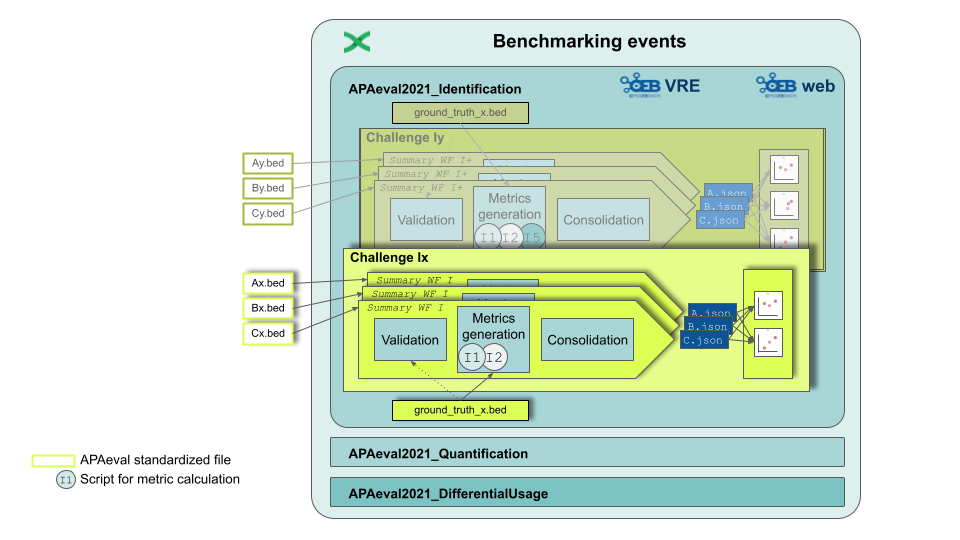
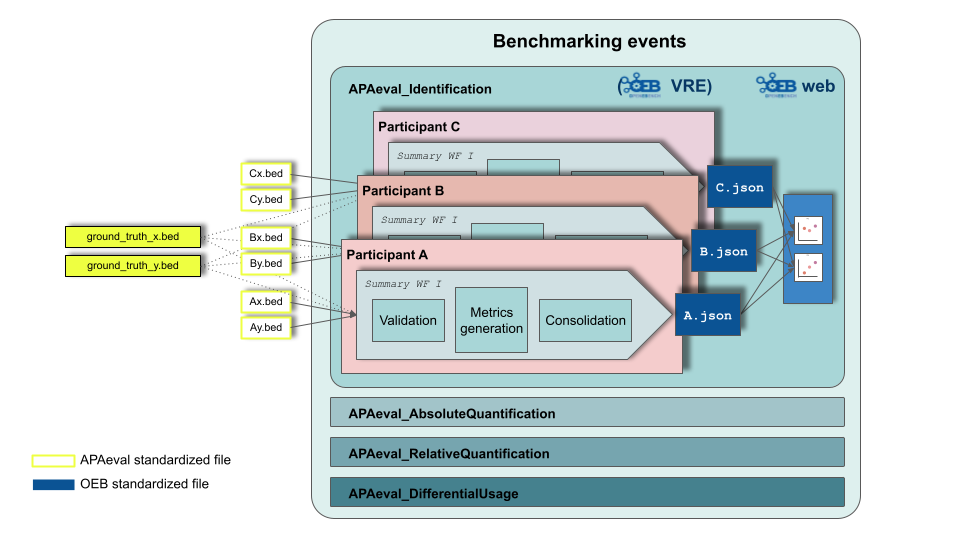
update READMEs

diff --git a/summary_workflows/README.md b/summary_workflows/README.md
@@ -1,63 +1,75 @@
 # Summary workflows
-This is where the summary workflows for APAeval live.
+This is where the summary workflows for APAeval live. The dedicated code for each ***benchmarking event*** resides in its own subdirectory. 
 
 - [Overview](#overview)
 - [Summary workflow general description](#summary-workflow-general-description)
-- [HOW TO](#how-to)
+  - [Directory structure for summary workflow code](#directory-structure-for-summary-workflow-code)
+- [HOW TO: DEVELOP](#how-to-develop)
   - [1. Copy template](#1-copy-template)
   - [2. Establish proper validation](#2-establish-proper-validation)
   - [3. Calculate the metrics](#3-calculate-the-metrics)
   - [4. Consolidation](#4-consolidation)
-  - [5. Adapt `nextflow.config`](#5-adapt-nextflowconfig)
+  - [5. Adapt `nextflow.config` and `main.nf`](#5-adapt-nextflowconfig-and-mainnf)
   - [6. Don't forget to update `README.md`](#6-dont-forget-to-update-readmemd)
-  - [7.Build containers](#7build-containers)
-  - [8. Run the summary workflow](#8-run-the-summary-workflow)
+  - [7. Build images](#7-build-images)
+  - [8. Test run](#8-test-run)
+- [HOW TO: "PRODUCTION"](#how-to-production)
+  - [1. Get input data (= participant output)](#1-get-input-data--participant-output)
+  - [2. Adapt configs](#2-adapt-configs)
+  - [3. Containers & images](#3-containers--images)
 - [Origin](#origin)
 ## Overview
 ![apaeval-swfs][apaeval-swfs]
 
-APAeval consists of **three benchmarking** events to evaluate the performance of different tasks that the methods of interest (=*participants*) might be able to perform: **poly(A) site identification, quantification, and assessment of their differential usage**. A method can participate in one, two or all three events, depending on its functions.   
+APAeval consists of a number of ***benchmarking events*** to evaluate the performance of different tasks that the methods of interest (=***participants***) might be able to perform: **poly(A) site identification, absolute quantification, relative quantification and assessment of their differential usage**. A method can participate in one or several events, depending on its functions.   
 
-Within a benchmarking event, one or more *challenges* will be performed. A **challenge is primarily defined by the input dataset used for performance assessment**. A challenge is evaluated within a *summary workflow*, which is run on the OEB infrastructure. The summary workflow will **compute all metrics relevant for the challenge**. Summary workflows can be re-used between challenges, however, depending on the input dataset, different metrics might be calculated, and summary workflows might thus be adapted to individual challenges (Example here: in challenge Ix, metrics I1 and I2 are computed, whereas in challenge Iy, an additional metric I5 is assessed. Apart from calculating metric I5 however, the summary workflows for the challenges Ix and Iy are the same.)    
+Within a benchmarking event, one or more ***challenges*** will be performed. A **challenge is primarily defined by the input dataset used for performance assessment**. A challenge is evaluated within a ***summary workflow***, which can be run with either docker or singularity, locally or on an HPC infrastructure (currently a profile for Slurm is included). The summary workflow will **compute all metrics relevant for the benchmarking event**. A list of challenge IDs and input files (= output files of one participant for all specified challenges) is passed to the workflow.    
 
-In order to compare the performance of participants within a challenge, the respective summary workflow will be run on output files from all eligible participant execution workflows (For the participant execution workflows please refer to the [iRNA-COSI/APAeval/execution_workflows][apaeval-ewfs] repository!).   
-In a first step the provided files are **validated**. Subsequently, all required **metrics** (scripts In for Identification, Qn for quantification, Dn for differential usage) are computed, using the matched ground truth files, if applicable. Finally, the **results will be gathered in OEB** specific .json files per participant.
-Based on the created .json files, OEB will visualize all results per challenge, such that performance of participants can be compared for each metric.
+In order to compare the performance of participants within a challenge/event, the respective summary workflow will be run on output files from all eligible participant execution workflows (For the participant execution workflows please refer to the [iRNA-COSI/APAeval/execution_workflows][apaeval-ewfs] repository!). The calculated metrics will be written to `.json` files that can be either submitted to OEB for database storage and online vizualisation, or transformed into a table format that can be used for creating custom plots with the help of scripts from the [APAeval utils directory][apaeval-utils].
 
 ## Summary workflow general description
-In order to be compatible with the OEB infrastructure, summary workflows are written in Nextflow and are structured in a predefined manner that will be described in the following sections.
+In a first step the provided input files are **validated**. Subsequently, all specified **metrics** are computed, using the matched ground truth files, if applicable. Finally, the **results are gathered** in OEB specific `.json` files per participant.
+Based on the created .json files, results can be vizualized on OEB per challenge, such that performance of participants can be compared for each metric.   
+
+In order to eventually be compatible with the OEB infrastructure, summary workflows are written in Nextflow and are structured in a predefined manner that will be described in the following sections.
 
 > DON'T FREAK OUT IF YOU'RE UNFAMILIAR WITH `NEXTFLOW`! MOST CHANGES YOU'LL MAKE ARE IN `PYTHON`! 😉
 
-The summary workflow code for each *benchmarking event* resides in its own directory (`identification`, `quantification`, `differential_usage`). 
-
-
+### Directory structure for summary workflow code
 ```bash
-[benchmarking_event]/
-    |- main.nf
-    |- nextflow.config
-    |- specification/
-        |- example_files/
-        |- specification.md
-    |- [benchmarking_event]_dockers/
-        |- validation/
-            |- JSON_templates/
-            |- Dockerfile
-            |- requirements.txt
-            |- validation.py
-            |- ...
-        |- metrics/
-            |- ...
-            |- compute_metrics.py
-            |- [python_module]/
-            |- ...
-        |- consolidation/
-            |- ...
-            |- manage_assessment_data.py
-            |- ...            
+summmary_workflows/
+    |- JSON_templates/
+    |- [benchmarking_event]/
+        |- main.nf
+        |- nextflow.config
+        |- [participant]_[event].config
+        |- specification/
+            |- example_files/
+            |- specification.md
+        |- [benchmarking_event]_dockers/
+            |- validation/
+                |- Dockerfile
+                |- requirements.txt
+                |- validation.py
+                |- ...
+            |- metrics/
+                |- Dockerfile
+                |- requirements.txt
+                |- compute_metrics.py
+                |- ...
+            |- consolidation/
+                |- Dockerfile
+                |- requirements.txt
+                |- aggregation.py
+                |- merge_data_model_files.py
+                |- ...    
+...
+utils/
+    |- matchPAS/
+        |-  src/matchPAS/main.py       
 ```
 
-Within such a directory we find the `main.nf` and `nextflow.config` files, which specify the workflow and all its parameters, respectively. `main.nf` ideally does NOT have to be changed between benchmarking events, as it simply connects the three steps `validation`, `metrics_computation` and `consolidation` inherent to the OEB infrastructure. In contrast, file and tool names, and parameters, have to be adapted in `nextflow.config` for *each individual tool and challenge*.   
+Within such a directory we find the `main.nf` and `nextflow.config` files, which specify the workflow and all its event-specific parameters, respectively, as well as a `[participant]_[event].config `, which contains the input file- and challenge names for a particular participant. `main.nf` ideally does NOT have to be changed (at least not much) between benchmarking events, as it simply connects the three steps `validation`, `metrics_computation` and `consolidation` inherent to the OEB workflow structure. In contrast, file and tool names, and parameters, have to be adapted in `nextflow.config` and `[participant]_[event].config ` for dedicated workflow runs.   
 Within the benchmarking event's directory resides a subdirectory `specification` with a detailed description of required input and output file formats, as well as of the metrics to be calculated for the respective benchmarking event. The *actual code* is hidden in the directory `[benchmarking_event]_dockers`; For each of the three summary workflow steps required by OEB, a separate docker container will be built:
 
 1. Validation
@@ -65,45 +77,45 @@ Within the benchmarking event's directory resides a subdirectory `specification`
 3. Consolidation
 
 
-The "dockers" directories contain Dockerfiles, requirements, and OEB `.json` templates. In order to create datasets that are compatible with the [Elixir Benchmarking Data Model][elixir-data-model], **the provided JSON templates have to be used**. The provided *python scripts* are where the action happens: **These scripts are where you most likely will have to make adjustments for different benchmarking events**. 
+The "dockers" directories contain Dockerfiles, requirements, and dedicated python scripts. In order to create datasets that are compatible with the [Elixir Benchmarking Data Model][elixir-data-model], the JSON templates in the main `summary_workflows` directory are imported in the respective docker containers. The provided *python scripts*, as well as the module `utils/matchPAS` they import, are where the action happens: **These scripts are where you most likely will have to make adjustments for different benchmarking events**. 
 
 
-## HOW TO
+## HOW TO: DEVELOP
 For an example of a summary workflow and further instructions, refer to the [quantification summary workflow][q-swf].   
 ### 1. Copy template
-If not done so already, copy the whole contents of the `quantification` directory into the respective benchmarking event directory (`identification` or `differential_usage`). Adapt the contents of `specification/`.
+If not done so already, copy the whole contents of the `quantification` directory into the directory for your new benchmarking event. Specify the objectives of your event by adapting the contents of `specification/` .
 
 ### 2. Establish proper validation
-OEB requires all inputs to be validated. To check for correct input file formats for your benchmarking event, adapt the validation in [`validation.py`][validation-py] (around line 50). Update the corresponding `requirements.txt`, `constraints.txt` and `Dockerfile` for installation of additional packages, if applicable.
+OEB requires all inputs to be validated. To check for correct input file formats for your benchmarking event, adapt the validation in [`validation.py`][validation-py] (around line 50). Update the corresponding `requirements.txt`, `constraints.txt` and `Dockerfile` for installation of additional packages, if necessary.
 
 ### 3. Calculate the metrics
-Adapt [`compute_metrics.py`][metrics-py] to compare the participant output to the community provided gold standard file(s). You can define custom functions in modules within the `metrics` docker directory (in the example of the quantification summary workflow, we created a module [`matchPAS`][matchpas])
+Adapt [`compute_metrics.py`][metrics-py] to compare the participant output to the community provided gold standard file(s). You can define custom functions in modules within the [`utils` directory][apaeval-utils] (in the example of the quantification summary workflow, we created a module [`matchPAS`][matchpas]).
 
->NOTE: the extension of the gold standard file is currently hardcoded in [`compute_metrics.py`][metrics-py] in line 50. Change this according to your gold standard file format.
+>NOTE: the extension of the gold standard file is currently hardcoded in [`compute_metrics.py`][metrics-py] in line 56. Change this according to your gold standard file format.
 
 Update the corresponding `requirements.txt`, `constraints.txt` and `Dockerfile` for installation of additional packages, if applicable.
 ### 4. Consolidation
-You can set visualization types in [`manage_assessment_data.py`][assess-py]. The current python scripts have been copied from https://github.com/inab/TCGA_benchmarking_dockers, and only support 2D plots with x and y axes.
+The json outputs from the first two steps will be gathered here, and "aggregation objects" for OEB vizualisation will be created based on the `aggregation_template.json`. Thus, this is the file you want to adapt in order to control which metrics are plotted in OEB. You can set visualization types for local plotting in [`manage_assessment_data.py`][assess-py]. The current python scripts have been copied from https://github.com/inab/TCGA_benchmarking_dockers, and only support 2D plots with x and y axes.
 
-### 5. Adapt `nextflow.config`
-Here you'll adjust the docker container names, as well as input, participant and challenge names for *each tool and each challenge*.
+### 5. Adapt `nextflow.config` and `main.nf`
+In the former you'll have to adjust the docker container names and general workflow parameters, whereas in the latter you'll only have to make changes if you have introduced new workflow parameters (or want to change the wiring of steps, which is not recommended for the sake of attempted OEB compatibility).
 
 ### 6. Don't forget to update `README.md`
 Describe the type of validation and metric calculation you perform in the `README.md` in your benchmarking event directory (see [example from quantification summary workflow][q-swf]).
 
-### 7.Build containers
-After making the necessary changes for your specific challenge, you will have to build the docker images locally by either of the following two methods:
+### 7. Build images
+After making the necessary changes for your specific event, you will have to build the docker images locally by either of the following two methods:
 
-1. Go to the `[Y]_dockers/` directory and run the following
-(note: the `tag_id` should match the one in `nextflow.config`)
+1. Go to the `[X]_dockers/` directory and run the following
+(note: the `tag_id` should match the one in your `nextflow.config`)
 ```
 run `./build.sh <tag_id>`
 ```
-2. Go to the specific docker directory for each step in `[Y]_dockers/`:
- - `[X]_validation/`, `[X]_metrics/`, and `[X]_consolidation/`
+2. Go to the specific docker directory for each step in `[X]_dockers/`:
+ - `[X]_validation/`, `[X]_metrics/`, or `[X]_consolidation/`
 and run the following
 ```
-docker build . -t apaeval/[X]_[validation/metrics/consolidation]:1.0
+docker build . -t apaeval/[X]_[validation OR metrics OR consolidation]:<tag_id>
 ```
 If you want to update the docker containers, please remove your original images first:
 ```
@@ -113,27 +125,54 @@ docker rmi [IMAGE_ID]
 Then, you can rebuild the docker image locally (see above).
 > NOTE: please don't push to APAeval docker hub unless sanctioned by APAeval admins (ask us on Slack)
 
-### 8. Run the summary workflow
-One can use the following command to run the summary workflow from command line:
+### 8. Test run
+One can use the following command to run the quantification summary workflow with the provided test files from command line:
 ```
-nextflow run main.nf -profile docker
+nextflow run main.nf -profile docker -c tool_event.config
+
+# Or for running with singularity and slurm:
+nextflow run main.nf -profile slurm -c tool_event.config
+
 ```
-This reads the parameters from the [nextflow.config][nextflow-config] file.
+> NOTE: Parameters from the [nextflow.config][nextflow-config] file are read **in addition** to the ones specified with the `-c` flag, but the latter will override any parameters of the same name in the nextflow.config.
+
+## HOW TO: "PRODUCTION"
+When you have completed the steps described above you can finally run the summary workflow on real data. Below are some hints to help you get going.
+
+### 1. Get input data (= participant output)
+Place the participant output into a directory like `DATA/PARTICIPANT_NAME/` and make sure the files are named like `PARTICIPANT_NAME.CHALLENGE_ID.EVENT.EXT`
+
+### 2. Adapt configs
+You're going to run the workflow for one participant at a time, but you can specify multiple challenges for that participant. To do so, adapt the `nextflow.config` (params `participant_id` and `indir`) and create a participant specific `[participant]_[event].config` (copy `tool_event.config`). There you'll specify input files and challenge names. 
+
+> NOTE: in the current implementation you have to specify `participant_id` and `indir` in both the `nextflow.config` AND the `[participant]_[event].config`
+
+### 3. Containers & images
+Make sure you have the images appropriate for your system ready. If you're running docker you can use the images you built locally in the [HOW TO: DEVELOP](#7-build-containers) section. If you want to use singularity you'll first have to push those images to a publicly accessible repo, e.g. dockerhub. Make sure to rename the images (see bash command below) and adjust the paths in the `nextflow.config` accordingly.
+
+```bash
+docker tag apaeval/q_consolidation:1.0 your_docker_repo/q_consolidation:1.0
+docker push your_docker_repo/q_consolidation:1.0
+```
+
+> ATTENTION: always make sure you're using up to date versions of the images. More specifically: DO make sure you have removed old local images and/or cleared singularity caches on your system and checked your `nextflow.config`
 
 ## Origin
-The APAeval OEB summary workflow is an adaptation of the [TCGA_benchmarking_workflow][tcga-wf] with the [corresponding docker declarations][tcga-docker]. The output structure is compatible with the [ELIXIR Benchmarking Data Model][elixir-data-model].
+The APAeval OEB summary workflow is an adaptation of the [TCGA_benchmarking_workflow][tcga-wf] with the [corresponding docker declarations][tcga-docker]. The structure of output files is compatible with the [ELIXIR Benchmarking Data Model][elixir-data-model]. The current version of the workflow is not compatible with the OEB VRE setup, however, only minor changes should be needed to re-establish compatibility.
 
 [//]: # (References)
 [apaeval-swfs]: ../images/SWFs.png
 [apaeval-ewfs]: https://github.com/iRNA-COSI/APAeval/tree/main/execution_workflows
-[elixir-data-model]: https://github.com/inab/benchmarking-data-model
-[q-swf]: quantification/README.md
-[validation-py]:quantification/quantification_dockers/q_validation/validation.py
-[metrics-py]:quantification/quantification_dockers/q_metrics/compute_metrics.py
-[matchpas]: quantification/quantification_dockers/q_metrics/matchPAS
+[apaeval-utils]: https://github.com/iRNA-COSI/APAeval/tree/main/utils
 [assess-py]:quantification/quantification_dockers/q_consolidation/manage_assessment_data.py
+[elixir-data-model]: https://github.com/inab/benchmarking-data-model
+[metrics-py]:quantification/quantification_dockers/q_metrics/compute_metrics.py
+[matchpas]: https://github.com/iRNA-COSI/APAeval/tree/main/utils/matchPAS
+[oeb]: <https://openebench.bsc.es/>
 [nextflow-config]: quantification/nextflow.config
+[q-swf]: quantification/README.md
 [tcga-wf]: https://github.com/inab/TCGA_benchmarking_workflow
 [tcga-docker]: https://github.com/inab/TCGA_benchmarking_dockers
+[validation-py]:quantification/quantification_dockers/q_validation/validation.py
 
 

diff --git a/summary_workflows/quantification/README.md b/summary_workflows/quantification/README.md
@@ -3,86 +3,54 @@
 *OpenEBench compatible Nextflow workflow for assessment of a bioinformatics tool's performance in **quantifying poly(A) site usage** from RNA-seq data*
 ___
 
-This README describes the APAeval **quantification** summary workflow. For a more general introduction to summary workflows see [the main summary workflow `README.md`][readme-swf]. For the specification of metrics, in- and output file formats, see [the quantification benchmarks specification][q-spec].
+This README describes the APAeval **(absolute) quantification** summary workflow. For a more general introduction to summary workflows see [the main summary workflow `README.md`][readme-swf]. For the specification of metrics, in- and output file formats, see [the quantification benchmarks specification][q-spec].
 
 - [Description of steps](#description-of-steps)
   - [1. Validation](#1-validation)
   - [2. Metrics Computation](#2-metrics-computation)
   - [3. Results Consolidation](#3-results-consolidation)
 - [Usage](#usage)
-  - [Building docker images](#building-docker-images)
-  - [Running the summary workflow](#running-the-summary-workflow)
-- [Notes on running the workflow](#notes-on-running-the-workflow)
 ## Description of steps
 ### 1. Validation
-- `input_file`: list of output files from execution workflow in bed6 format
+- `input_file`: output file from execution workflow in bed6 format
 - Validation checks performed in [`quantification_dockers/q_validation/validation.py`][validation-py]:
    - input file has to be tab separated file with 6 columns
    - start and end coordinates (col 2,3) have to be int64
    - strand (col 6) has to be one of [+,-]
    - chromosome (col 1) has to match the ones from the genome annotation (see below `genome_dir`)
   
-- The `validated-participant-data.json` file is not used in the subsequent steps, but the workflow exits if one of the input file doesn't comply to the specifications of the current benchmarking event
+- The `validated_[participant].[challenge].[event].json` file is used in the consolidation step, but not in the compute metrics one. However, the workflow exits after the validation step if *one or more* of the input files don't comply to the specifications of the current benchmarking event
   
 ### 2. Metrics Computation
 - "input file" and "gold standard file" will be compared in order to calculate the metrics
-- `input_file`: list of output files from execution workflow in bed6 format
+- `input_file`: output file from execution workflow in bed6 format
 - `gold standard`: bed6 file derived from 3'end sequencing on the same sample(s) as the RNA-seq data used in the challenge
 >NOTE: the gold standard file MUST be named in the format `[challenge].bed`, where `[challenge]` is specified in `challenges_ids` in `nextflow.config`. The extension `.bed` is hardcoded within [`compute_metrics.py`][metrics-py].
 - `windows` parameter is used to compute metrics for a list of window sizes.
     - For running on OEB: the parameter is read from `nextflow.config`.
 - `genome_dir`: Directory to genome annotation in gtf format with 9 fields as specified [here](https://www.gencodegenes.org/pages/data_format.html). The gtf is used for the relative PAS usage metric computation.
-  - For running on OEB: The genome directory is specified in `nextflow.config`. 
-  - For the test data, challenge `test.mm10_test.gt` will use genome file `test.genome.mm10_test.gtf`, because both contain `mm10_test` within two dots in the string.
+  - For running on OEB: The genome directory is specified in `nextflow.config`
+  - For the test data, challenge `challenge_1.mm10` with ground truth file `challenge_1.mm10.bed` will use genome file `gencode.test.mm10.gtf`, because both contain `mm10` within two dots in the filename.
 > NOTE: the genome file needs to contain the same substring as the challenge. That is, challenge `[partone].[organism].[partwo].bed` requires a genome annotation file like `[partone].[organism].[partwo].gtf`, where `[organism]` starts with *mm* or *hg* (only these two currently supported). And `[partone]` and `[parttwo]` can be an aribitrary string (or empty string).
 - APAeval custom functions called in [`quantification_dockers/q_metrics/compute_metrics.py`][metrics-py] are defined in `utils/matchPAS`
-- The `Assessment_datasets.json` file is used in the following step
-> NOTE: more metrics are computed and reported in the assessment file than used in the plots.
+- The `assessments_[participant].[challenge].[event].json` file is used in the consolidation step
+
 
 ### 3. Results Consolidation
-- Gathers the `Assessment_datasets.json` file from the metrics computation step and existing assessment data (currently imported from the `data/` directory; in `nextflow.config`: `assess_dir`)
-- Python scripts have been copied from https://github.com/inab/TCGA_benchmarking_dockers, and only support 2D plots with x and y axes
+- Gathers *all* `validated_[participant].[challenge].[event].json` files from the validation step, *all* `assessments_[participant].[challenge].[event].json` files from the metrics computation step, and - if available - existing aggregation data (currently imported from the `data/` directory; in `nextflow.config`: `assess_dir`)
+- Outputs OEB compatible `consolidated_result.json` file for the tested participant
+- "aggregation" objects in the `consolidated_result.json` determine which metrics are to be plotted against each other on the OEB website
+- In order to specify which of the metrics present in the assessment objects should be plotted on OEB, the file `quantification_dockers/q_consolidation/aggregation_template.json` has to be modified.
 
 ## Usage
-### Building docker images
-
-1. Go to the `[Y]_dockers/` directory and run the following
-(note: the `tag_id` should match the one in ../`nextflow.config`)
-```
-run `./build.sh <tag_id>`
-```
-OR   
-2. Go to the specific docker directory for each step in `[Y]_dockers/`:
- - `[X]_validation/`, `[X]_metrics/`, and `[X]_consolidation/`
-and run the following
-```
-docker build . -t apaeval/[X]_[validation/metrics/consolidation]:1.0
-```
-If you want to update the docker containers, please remove your original images first:
-```
-docker image ls #look for the IMAGE_ID of your docker image
-docker rmi [IMAGE_ID]
-```
-Then, you can rebuild the docker image locally (see above).
-> NOTE: please don't push to APAeval docker hub unless you created a new version for production that was sanctioned by APAeval admins (ask us on Slack).
-
-### Running the summary workflow
-One can use the following command to run the summary workflow from command line:
-```
-nextflow run main.nf -profile docker -c infiles.config
-```
-This reads the parameters from the [nextflow.config][nextflow-config] file and the specified [infiles.config][infiles-config], where the latter override any parameters of the same name in the nextflow.config.
-
-## Notes on running the workflow
+Please check out the sections on [building docker images][build-images] and [running the summary workflow][run-workflow] in the main [APAeval summary workflow README][readme-swf]
 
 
-- `genome_dir` parameter points to a directory containing genome annotation files in `gtf` format. It is used for relative PAS usage computation.
-    - The genome file is read out from each challenge name. This requires an exact string match between the challenge and the genome file within the genome dir.
-    - 
-    - > The genome file is implicitly called from challenge, an exact match of mm* or hg* between two dots is required!
 
 [//]: # (References)
 [readme-swf]: ../README.md
+[build-images]: ../README.md#7-build-images
+[run-workflow]: ../README.md#8-test-run
 [q-spec]: ./specification/
 [validation-py]:./quantification_dockers/q_validation/validation.py
 [metrics-py]:./quantification_dockers/q_metrics/compute_metrics.py

diff --git a/summary_workflows/quantification/quantification_dockers/README.md b/summary_workflows/quantification/quantification_dockers/README.md
@@ -14,40 +14,29 @@ In order to make the workflow containers reproducible and stable in the long-ter
 ## Structure
 Our benchmarking workflow structure is composed of three docker images / steps:
 1. [**Validation**](./q_validation):
-the input file format is checked and, if required, the content of the file is validated. The validation generates a
-participant dataset. In order to create datasets with structure compatible with the [Elixir Benchmarking Data Model][elixir-data-model], please use the following [python module and JSON schema][json-val].
+The input file format is checked and, if required, the content of the file is validated. The validation generates a
+participant dataset. In order to create datasets with structure compatible with the [Elixir Benchmarking Data Model][elixir-data-model], please use the following [python module and JSON schema][oeb-json].
+
 2. [**Metrics_computation**](./q_metrics):
-the predictions are compared with the 'Gold Standards' provided by the community, resulting in a set of quality metrics that reflect the performance of the benchmarking participants. Those metrics are written into assessment datasets. In order to create datasets with structure compatible with the [Elixir Benchmarking Data Model][elixir-data-model], please use the following [python module and JSON schema][json-met].
+Predictions are compared with the 'Gold Standards' provided by the community, resulting in a set of quality metrics that reflect the performance of the benchmarking participants. Those metrics are written into assessment datasets. In order to create datasets with structure compatible with the [Elixir Benchmarking Data Model][elixir-data-model], please use the following [python module and JSON schema][oeb-json].
+Functions for APAeval metrics calculation should be defined in the module [`utils/matchPAS`][matchpas] and imported in `compute_metrics.py`
+
+
 3. [**Consolidation**](./q_consolidation):
-the benchmark itself is performed by merging the assessment metrics of all APAeval participants. The results are provided in both SVG format (scatter plot) and JSON format (aggregation/summary datasets that are compatible with the [Elixir Benchmarking Data Model][elixir-data-model]).
+Validation results and assessment metrics of all completed challenges are gathered and written to `consolidated_result.json`, which is compatible with the [Elixir Benchmarking Data Model][elixir-data-model]). If present, existing aggregations are imported from a specified directory and included in the consolidation. The metrics to be plotted are collected in "aggregation" objects, which are specified in `aggregation_template.json`.
 
 
 ## Usage
-After making the necessary changes for your specific challenge, you will have to build the docker image(s) locally by either of the following two methods:
-
-1. Go to the `[Y]_dockers/` directory and run the following (note: the `tag_id` should match the one in ../`nextflow.config`):
-```
-run `./build.sh <tag_id>`
-```
-2. Go to the specific docker directory for each step in `[Y]_dockers/`:
- - `[X]_validation/`, `[X]_metrics/`, and `[X]_consolidation/`
-and run the following
-```
-docker build . -t apaeval/[X]_[validation/metrics/consolidation]:1.0
-```
-If you want to update the docker containers, please remove your original images first:
-```
-docker image ls #look for the IMAGE_ID of your docker image
-docker rmi [IMAGE_ID]
-```
-Then, you can rebuild the docker image locally (see above).
-> NOTE: please don't push to APAeval docker hub unless you created a new version for production that was sanctioned by APAeval admins (ask us on Slack).
+Please check out the sections on [building docker images][build-images] and [running the summary workflow][run-workflow] in the main [APAeval summary workflow README][readme-swf]
 
 
 [//]: # (References)
 [main-nf]: ../main.nf
-[readme-swf]: ../../README.md
 [readme-qswf]: ../README.md
+[readme-swf]: ../../README.md
+[matchpas]: ../../../utils/matchPAS/src/matchPAS/main.py
+[build-images]: ../../README.md#7-build-images
+[run-workflow]: ../../README.md#8-test-run
 [elixir-data-model]: https://github.com/inab/benchmarking-data-model
-[json-val]: ./q_validation/JSON_templates
-[json-met]: ./q_metrics/JSON_templates
+[oeb-json]: ../../JSON_templates/src/JSON_templates/
+
